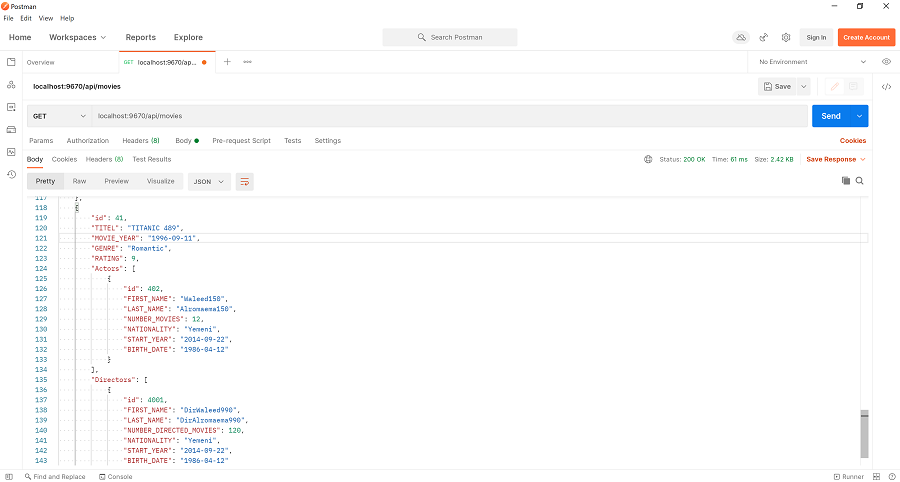
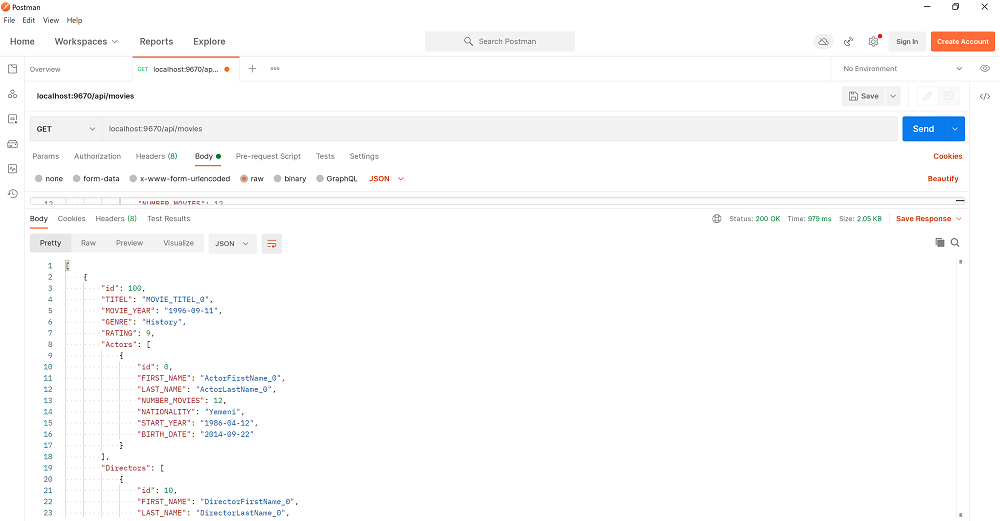
Add files via upload

diff --git a/readme.md b/readme.md
@@ -18,7 +18,7 @@ Author : Waleed Alromaema
 ----------------
 ## 1- About Movie Catalogue.
 
-movie catalogue is Microservice REST API Application that provide the following Services:
+movie catalogue is Microservice REST API Application developed by Spring boot Java Framework that provide the following Services:
 
 - INSERT,UPDATE,DELETE AND QUERY ABOUT MOVIES IN CATALOGUE.
 - FIND MOVIE BY ID.
@@ -40,6 +40,18 @@ the Database consists of three main Entity Tables [Movie,Actor,Director] and two
 the design as following :
 
 ![alt ER_movie_cataloge](ER_movie_cataloge.jpg)   
+
+##### - database configuration
+
+- the database used is H3(HSQLDB) database on memory Persistence.
+- spring boot configured it automatically once its dependency added in the Pom.xml file.
+  if  we used an on disk Persistence database we need to configure it manually in the application.proporties by configuring  spring.datasource object with database configurations.
+- the database initialised by the schema.sql with in the resource directory automatically by spring boot. 
+  
+  
+
+
+
    
 ### B- Business Logic Design
 
@@ -78,6 +90,14 @@ The design pattern considered the separation between different layers,
 #### - From STS WorkSpace:
 Right click on Project from Project Explorer Pane > Run as > Spring boot app 
 
+#### - By maven command line
+
+```
+git clone https://github.com/WaleedAlromaema/MovieCatalogueRestAPI.git
+cd MovieCatalogueRestAPI
+mvnw spring-boot:run
+```
+
 #### - POSTMAN
 
 using postman for testing the Rest api service
@@ -92,16 +112,16 @@ her is the complete list retrieved:
 
            [
     {
-        "id": 10,
-        "TITEL": "TITANIC 1996",
+        "id": 100,
+        "TITEL": "MOVIE_TITEL_0",
         "MOVIE_YEAR": "1996-09-11",
-        "GENRE": "Romantic",
+        "GENRE": "History",
         "RATING": 9,
         "Actors": [
             {
-                "id": 100,
-                "FIRST_NAME": "Waleed100",
-                "LAST_NAME": "Alromaema100",
+                "id": 0,
+                "FIRST_NAME": "ActorFirstName_0",
+                "LAST_NAME": "ActorLastName_0",
                 "NUMBER_MOVIES": 12,
                 "NATIONALITY": "Yemeni",
                 "START_YEAR": "1986-04-12",
@@ -110,9 +130,9 @@ her is the complete list retrieved:
         ],
         "Directors": [
             {
-                "id": 1000,
-                "FIRST_NAME": "DirWaleed100",
-                "LAST_NAME": "DirAlromaema100",
+                "id": 10,
+                "FIRST_NAME": "DirectorFirstName_0",
+                "LAST_NAME": "DirectorLastName_0",
                 "NUMBER_DIRECTED_MOVIES": 120,
                 "NATIONALITY": "Yemeni",
                 "START_YEAR": "1986-04-12",
@@ -121,16 +141,16 @@ her is the complete list retrieved:
         ]
     },
     {
-        "id": 20,
-        "TITEL": "TITANIC 2000",
+        "id": 200,
+        "TITEL": "MOVIE_TITEL_1",
         "MOVIE_YEAR": "1996-09-11",
-        "GENRE": "Romantic",
+        "GENRE": "Advanture",
         "RATING": 8,
         "Actors": [
             {
-                "id": 200,
-                "FIRST_NAME": "Waleed200",
-                "LAST_NAME": "Alromaema200",
+                "id": 1,
+                "FIRST_NAME": "ActorFirstName_1",
+                "LAST_NAME": "ActorLastName_1",
                 "NUMBER_MOVIES": 12,
                 "NATIONALITY": "Yemeni",
                 "START_YEAR": "1986-04-12",
@@ -139,9 +159,9 @@ her is the complete list retrieved:
         ],
         "Directors": [
             {
-                "id": 2000,
-                "FIRST_NAME": "DirWaleed200",
-                "LAST_NAME": "DirAlromaema200",
+                "id": 20,
+                "FIRST_NAME": "DirectorFirstName_1",
+                "LAST_NAME": "DirectorLastName_1",
                 "NUMBER_DIRECTED_MOVIES": 120,
                 "NATIONALITY": "Yemeni",
                 "START_YEAR": "1986-04-12",
@@ -150,16 +170,16 @@ her is the complete list retrieved:
         ]
     },
     {
-        "id": 30,
-        "TITEL": "TITANIC 2015",
+        "id": 300,
+        "TITEL": "MOVIE_TITEL_2",
         "MOVIE_YEAR": "1996-09-11",
-        "GENRE": "Romantic",
+        "GENRE": "Action",
         "RATING": 7,
         "Actors": [
             {
-                "id": 300,
-                "FIRST_NAME": "Waleed300",
-                "LAST_NAME": "Alromaema300",
+                "id": 2,
+                "FIRST_NAME": "ActorFirstName_2",
+                "LAST_NAME": "ActorLastName_2",
                 "NUMBER_MOVIES": 12,
                 "NATIONALITY": "Yemeni",
                 "START_YEAR": "1986-04-12",
@@ -168,9 +188,9 @@ her is the complete list retrieved:
         ],
         "Directors": [
             {
-                "id": 3000,
-                "FIRST_NAME": "DirWaleed300",
-                "LAST_NAME": "DirAlromaema300",
+                "id": 30,
+                "FIRST_NAME": "DirectorFirstName_2",
+                "LAST_NAME": "DirectorLastName_2",
                 "NUMBER_DIRECTED_MOVIES": 120,
                 "NATIONALITY": "Yemeni",
                 "START_YEAR": "1986-04-12",
@@ -179,16 +199,16 @@ her is the complete list retrieved:
         ]
     },
     {
-        "id": 40,
-        "TITEL": "TITANIC 2021",
+        "id": 400,
+        "TITEL": "MOVIE_TITEL_3",
         "MOVIE_YEAR": "1996-09-11",
         "GENRE": "Romantic",
         "RATING": 3,
         "Actors": [
             {
-                "id": 400,
-                "FIRST_NAME": "Waleed400",
-                "LAST_NAME": "Alromaema400",
+                "id": 3,
+                "FIRST_NAME": "ActorFirstName_3",
+                "LAST_NAME": "ActorLastName_3",
                 "NUMBER_MOVIES": 12,
                 "NATIONALITY": "Yemeni",
                 "START_YEAR": "1986-04-12",
@@ -197,9 +217,9 @@ her is the complete list retrieved:
         ],
         "Directors": [
             {
-                "id": 4000,
-                "FIRST_NAME": "DirWaleed400",
-                "LAST_NAME": "DirAlromaema400",
+                "id": 40,
+                "FIRST_NAME": "DirectorFirstName_3",
+                "LAST_NAME": "DirectorLastName_3",
                 "NUMBER_DIRECTED_MOVIES": 120,
                 "NATIONALITY": "Yemeni",
                 "START_YEAR": "1986-04-12",
@@ -208,16 +228,16 @@ her is the complete list retrieved:
         ]
     },
     {
-        "id": 41,
-        "TITEL": "TITANIC 489",
+        "id": 401,
+        "TITEL": "MOVIE_TITEL_000",
         "MOVIE_YEAR": "1996-09-11",
-        "GENRE": "Romantic",
-        "RATING": 9,
+        "GENRE": "Action",
+        "RATING": 7,
         "Actors": [
             {
-                "id": 402,
-                "FIRST_NAME": "Waleed150",
-                "LAST_NAME": "Alromaema150",
+                "id": 4,
+                "FIRST_NAME": "ActorFirstName_000",
+                "LAST_NAME": "ActorLastName_000",
                 "NUMBER_MOVIES": 12,
                 "NATIONALITY": "Yemeni",
                 "START_YEAR": "2014-09-22",
@@ -226,9 +246,9 @@ her is the complete list retrieved:
         ],
         "Directors": [
             {
-                "id": 4001,
-                "FIRST_NAME": "DirWaleed990",
-                "LAST_NAME": "DirAlromaema990",
+                "id": 41,
+                "FIRST_NAME": "DirectorFirstName_000",
+                "LAST_NAME": "DirectorLastName_000",
                 "NUMBER_DIRECTED_MOVIES": 120,
                 "NATIONALITY": "Yemeni",
                 "START_YEAR": "2014-09-22",
@@ -242,5 +262,5 @@ her is the complete list retrieved:
 
 ![alt postMovie](postMovie.png)
 
-The same applied for The rest of API List of ACtors and Directors.
+The same applied for The rest of API List of Actors and Directors.
 
